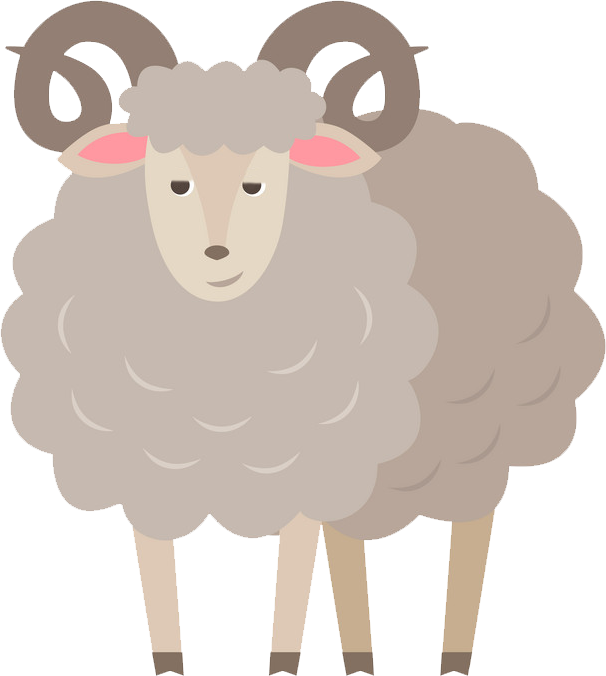
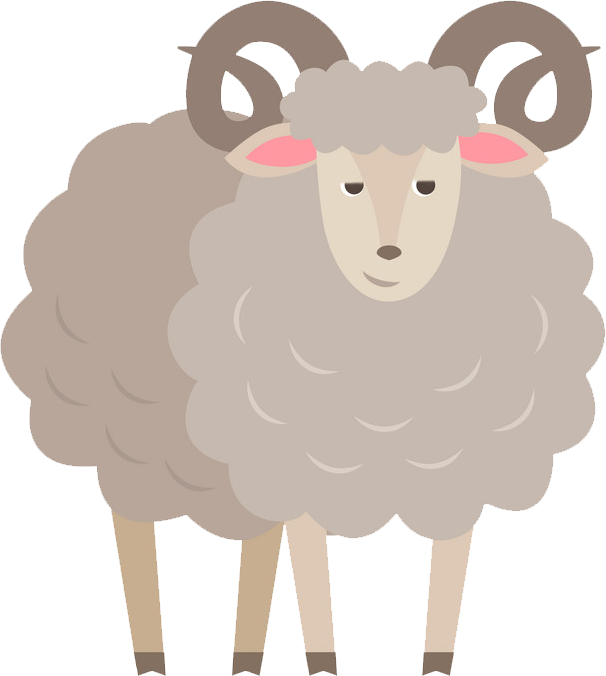
# Update Add multiple animation system Add sheep eat cabbage animation

diff --git a/GObject/BaseGObject.py b/GObject/BaseGObject.py
@@ -17,17 +17,24 @@ class BaseGObject:
         self._original_y = y
 
         # load images for animating
-        self._animatedList = []
+        self._named_animations = {}
+
+        self._named_animations['Idle'] = []
 
         for frame in animatedList:
-            self._animatedList.append({
+            self._named_animations['Idle'].append({
                 'image': pg.transform.scale(pg.image.load(frame['path']), (self.width, self.height)).convert_alpha(),
                 'duration': frame['duration']
             })
 
+        self._animationIdleName = 'Idle'
+
+        # Load Named Animation
         self._animatedIndex = 0
         self._lastAnimationChanged = pg.time.get_ticks()
-        self.image = self._animatedList[self._animatedIndex]['image']
+        self.image = self._named_animations['Idle'][0]['image']
+        self._onceAnimation = False
+        self._animationName = self._animationIdleName
 
         # define object position & status
         self.x = x
@@ -39,12 +46,45 @@ class BaseGObject:
         self.maxSpeed = 3
         self.isMoving = False
 
+    def AddAnimation(self, animationName, animation):
+        '''
+        animation = [
+            {'path': 'media/cabbage/cabbage_eat_0.png', 'duration': 100},
+            {'path': 'media/cabbage/cabbage_eat_1.png', 'duration': 100},
+            {'path': 'media/cabbage/cabbage_eat_2.png', 'duration': 100},
+            {'path': 'media/cabbage/cabbage_eat_3.png', 'duration': 100},
+            {'path': 'media/cabbage/cabbage_eat_4.png', 'duration': 100},
+            {'path': 'media/cabbage/cabbage_eat_5.png', 'duration': 100},
+            {'path': 'media/cabbage/cabbage_eat_6.png', 'duration': 100},
+        ]
+        '''
+        self._named_animations[animationName] = []
+        for f in animation:
+            self._named_animations[animationName].append(
+                {
+                    'image': pg.transform.scale(pg.image.load(f['path']), (self.width, self.height)).convert_alpha(),
+                    'duration': f['duration']
+                }
+            )
+
+    def PlayAnimationOnce(self, animationName):
+        if self._animationName == animationName:
+            return
+        self._animatedIndex = 0
+        self._lastAnimationChanged = pg.time.get_ticks()
+        self._animationName = animationName
+
     def setMaxSpeed(self, val):
         self.maxSpeed = val
 
     def setFlip(self, xbool, ybool):
-        for img in self._animatedList:
-            img['image'] = pg.transform.flip(img['image'], xbool, ybool)
+        pass
+        #for animationName in enumerate(self._named_animations):
+        #    for Frame in enumerate(animationName):
+        #        print(Frame)
+        #Frame['image'] = pg.transform.flip(Frame['image'], xbool, ybool)
+        #for x in animationName:
+        #x['image'] = pg.transform.flip(x['image'], xbool, ybool)
 
     def setPos(self, pos):
         self.x = pos[0]
@@ -64,15 +104,26 @@ class BaseGObject:
         self._target_pos_x = move[0]
         self._target_pos_y = move[1]
 
+    def setAnimationIdle(self, animationName):
+        self._animationIdleName = animationName
+
     def update(self):
 
         # Animation Images
-        if pg.time.get_ticks() - self._lastAnimationChanged > self._animatedList[self._animatedIndex % len(
-                self._animatedList)]['duration']:
+
+        frameIndex = self._animatedIndex % len(self._named_animations[self._animationName])
+        frameDuration = self._named_animations[self._animationName][frameIndex]['duration']
+        if pg.time.get_ticks() - self._lastAnimationChanged > frameDuration:
+
+            frameImage = self._named_animations[self._animationName][frameIndex]['image']
+            self.image = frameImage
+
+            if frameIndex == len(self._named_animations[self._animationName]) - 1:
+                self._animationName = self._animationIdleName
+
             self._animatedIndex += 1
-            self.image = self._animatedList[self._animatedIndex % len(
-                self._animatedList)]['image']
             self._lastAnimationChanged = pg.time.get_ticks()
+
 
         # Animation Moving
         move_delta_x = 0

diff --git a/GObject/Cabbage.py b/GObject/Cabbage.py
@@ -3,34 +3,34 @@ import pygame as pg
 from GObject.BaseGObject import BaseGObject
 from Utils.Utils import clamp
 
+
 class Cabbage(BaseGObject):
     def __init__(self, x, y):
         animated = [
-            {
-                'path': 'media/cabbage/cabbage_0.png',
-                'duration': 200
-            },
-            {
-                'path': 'media/cabbage/cabbage_1.png',
-                'duration': 200
-            },
-            {
-                'path': 'media/cabbage/cabbage_2.png',
-                'duration': 200
-            },
-            {
-                'path': 'media/cabbage/cabbage_3.png',
-                'duration': 200
-            },
-            {
-                'path': 'media/cabbage/cabbage_2.png',
-                'duration': 200
-            },
-            {
-                'path': 'media/cabbage/cabbage_1.png',
-                'duration': 200
-            },
+            {'path': 'media/cabbage/cabbage_0.png', 'duration': 200},
+            {'path': 'media/cabbage/cabbage_1.png', 'duration': 200},
+            {'path': 'media/cabbage/cabbage_2.png', 'duration': 200},
+            {'path': 'media/cabbage/cabbage_3.png', 'duration': 200},
+            {'path': 'media/cabbage/cabbage_2.png', 'duration': 200},
+            {'path': 'media/cabbage/cabbage_1.png', 'duration': 200},
         ]
 
         super(Cabbage, self).__init__(animated, 0.18, x, y)
         self.setMaxSpeed(10)
+        self.AddAnimation(
+            'eat_cabbage',
+            [
+                {'path': 'media/cabbage/cabbage_eat_0.png', 'duration': 500},
+                {'path': 'media/cabbage/cabbage_eat_1.png', 'duration': 300},
+                {'path': 'media/cabbage/cabbage_eat_2.png', 'duration': 300},
+                {'path': 'media/cabbage/cabbage_eat_3.png', 'duration': 300},
+                {'path': 'media/cabbage/cabbage_eat_4.png', 'duration': 300},
+                {'path': 'media/cabbage/cabbage_eat_5.png', 'duration': 300},
+                {'path': 'media/cabbage/cabbage_eat_6.png', 'duration': 300},
+            ])
+
+        self.AddAnimation(
+            'eaten',
+            [
+                {'path': 'media/cabbage/cabbage_eat_6.png', 'duration': 1000},
+            ])

diff --git a/main.py b/main.py
@@ -105,11 +105,14 @@ class Game:
 
                     if self.btn_test.wasClicked(event):
                         print('this is a test button')
-                        
+                        self.cabbage.PlayAnimationOnce('eat_cabbage')
+                        self.cabbage.setAnimationIdle('eaten')
+                        """ 
                         self.boat.absMove((width - 300 - self.boat.width, self.boat.y))
                         self.boat.Crossed = True
                         self.Crossed = [self.sheep, self.wolf, self.cabbage]
-                        self.NotCrossed = set()
+                        self.NotCrossed = set() 
+                        """
                         
 
                     if self.gameover == True or self.complete == True:
@@ -215,12 +218,15 @@ class Game:
             self.complete = True
 
         # Determine GameOver
-        if self.boat.isMoving:
+        if self.boat.isMoving and self.gameover == False:
             if not self.NotCrossed == set():
                 for Side in [self.NotCrossed, self.Crossed]:
                     if self.sheep in Side and self.cabbage in Side:
                         self.gameover = True
-                        self.sheep.absMove((self.cabbage.rect.x - self.sheep.width + 20,self.cabbage.rect.bottom - self.sheep.height))
+                        self.sheep.absMove((self.cabbage.rect.x - self.sheep.width + 45,self.cabbage.rect.bottom - self.sheep.height))
+                        self.cabbage.PlayAnimationOnce('eat_cabbage')
+                        self.cabbage.setAnimationIdle('eaten')
+                        self.sheep.PlayAnimationOnce('eat_cabbage')
                     if self.wolf in Side and self.sheep in Side:
                         self.gameover = True
                         self.wolf.absMove((self.sheep.rect.x - self.sheep.width + 20,self.sheep.rect.bottom - self.wolf.height))

diff --git a/GObject/Sheep.py b/GObject/Sheep.py
@@ -80,3 +80,25 @@ class Sheep(BaseGObject):
         super(Sheep, self).__init__(animated, 0.125, x, y)
         self.setMaxSpeed(10)
         self.setFlip(True, False)
+
+        self.AddAnimation(
+            'eat_cabbage',
+            [
+                {'path': 'media/sheep/sheep_eat_0.png', 'duration': 500},
+                {'path': 'media/sheep/sheep_eat_1.png', 'duration': 100},
+                {'path': 'media/sheep/sheep_eat_2.png', 'duration': 100},
+                {'path': 'media/sheep/sheep_eat_3.png', 'duration': 100},
+                {'path': 'media/sheep/sheep_eat_4.png', 'duration': 100},
+                {'path': 'media/sheep/sheep_eat_5.png', 'duration': 100},
+                {'path': 'media/sheep/sheep_eat_6.png', 'duration': 100},
+                {'path': 'media/sheep/sheep_eat_7.png', 'duration': 100},
+                {'path': 'media/sheep/sheep_eat_8.png', 'duration': 100},
+                {'path': 'media/sheep/sheep_eat_9.png', 'duration': 100},
+                {'path': 'media/sheep/sheep_eat_7.png', 'duration': 100},
+                {'path': 'media/sheep/sheep_eat_6.png', 'duration': 100},
+                {'path': 'media/sheep/sheep_eat_5.png', 'duration': 100},
+                {'path': 'media/sheep/sheep_eat_4.png', 'duration': 100},
+                {'path': 'media/sheep/sheep_eat_3.png', 'duration': 100},
+                {'path': 'media/sheep/sheep_eat_2.png', 'duration': 100},
+                {'path': 'media/sheep/sheep_eat_1.png', 'duration': 100},
+            ])
